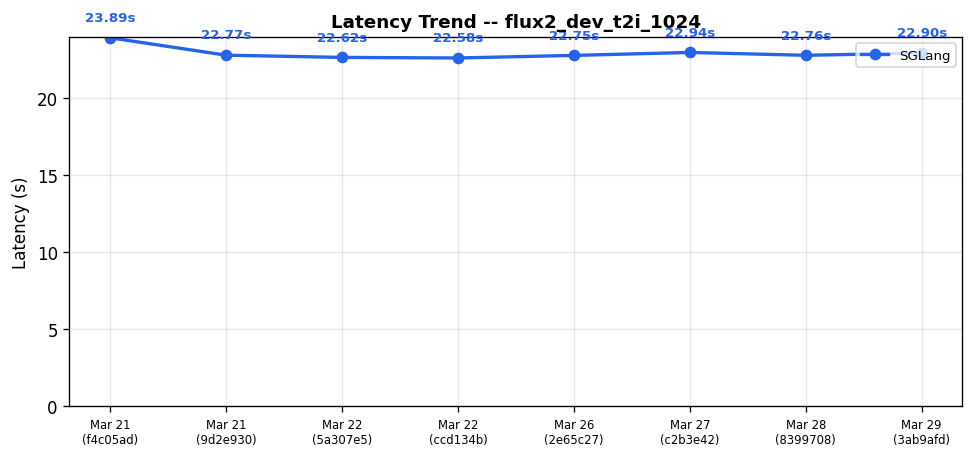
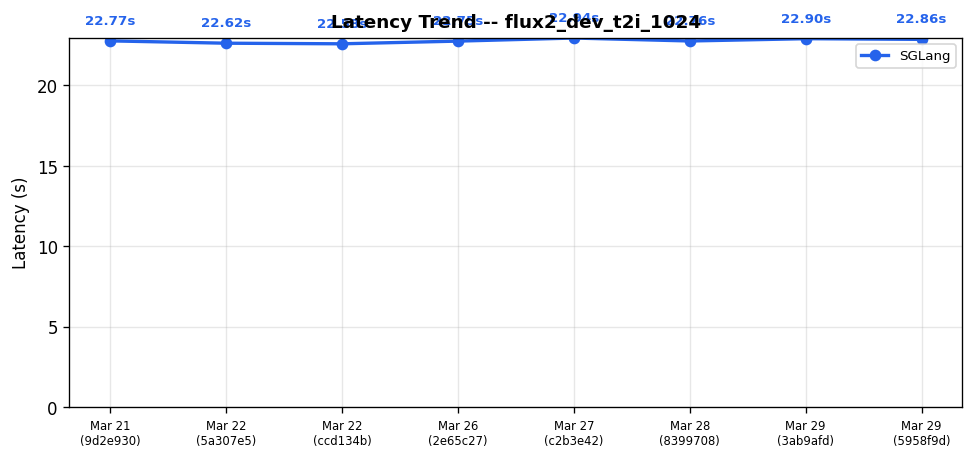
Diffusion comparison results for run 23700760130 (#532)

diff --git a/diffusion-comparisons/dashboard.md b/diffusion-comparisons/dashboard.md
@@ -1,32 +1,38 @@
 # Diffusion Cross-Framework Performance Dashboard
 
-*Generated: Mar 29 | Commit: `3ab9afd`*
+*Generated: Mar 29 | Commit: `5958f9d`*
+
+> [!WARNING]
+> **Performance Regression Detected**
+>
+> - **wan22_i2v_a14b_720p** (sglang): 9.04s -> 10.04s (+11.1%)
+
 
 ## Cross-Framework Performance Comparison
 
 | Model | Risk | sglang (s) |
 |-------|------|---------|
 | FLUX.1-dev | ✅ | **6.70** |
-| FLUX.2-dev | ✅ | **22.90** |
+| FLUX.2-dev | ✅ | **22.86** |
 | Qwen-Image-2512 | ✅ | **13.19** |
-| Qwen-Image-Edit-2511 | ✅ | **29.52** |
+| Qwen-Image-Edit-2511 | ✅ | **29.74** |
 | Z-Image-Turbo | ✅ | **0.93** |
-| Wan2.2-T2V-A14B-Diffusers | ✅ | **16.17** |
-| Wan2.2-TI2V-5B-Diffusers | ✅ | **62.17** |
-| Wan2.2-I2V-A14B-Diffusers | ✅ | **9.04** |
+| Wan2.2-T2V-A14B-Diffusers | ✅ | **16.31** |
+| Wan2.2-TI2V-5B-Diffusers | ✅ | **62.18** |
+| Wan2.2-I2V-A14B-Diffusers | ✅ | **10.04** |
 
 ## SGLang Performance Trend (Last 7 Runs)
 
 | Date | Commit | flux1_dev_t2i_1024 (s) | flux2_dev_t2i_1024 (s) | qwen_image_2512_t2i_1024 (s) | qwen_image_edit_2511 (s) | zimage_turbo_t2i_1024 (s) | wan22_t2v_a14b_720p (s) | wan22_ti2v_5b_720p (s) | wan22_i2v_a14b_720p (s) | Trend |
 |------|--------|---------|---------|---------|---------|---------|---------|---------|---------|-------|
+| Mar 29 | `5958f9d` | 6.70 | 22.86 | 13.19 | 29.74 | 0.93 | 16.31 | 62.18 | 10.04 | :left_right_arrow:  :left_right_arrow:  :left_right_arrow:  :left_right_arrow:  :left_right_arrow:  :left_right_arrow:  :left_right_arrow:  :arrow_up: |
 | Mar 29 | `3ab9afd` | 6.70 | 22.90 | 13.19 | 29.52 | 0.93 | 16.17 | 62.17 | 9.04 | :left_right_arrow:  :left_right_arrow:  :arrow_down:  :arrow_down:  :left_right_arrow:  :left_right_arrow:  :left_right_arrow:  :arrow_down: |
 | Mar 28 | `8399708` | 6.68 | 22.76 | 13.71 | 31.67 | 0.93 | 16.27 | 62.22 | 10.04 | :left_right_arrow:  :left_right_arrow:  :arrow_up:  :arrow_up:  :left_right_arrow:  :left_right_arrow:  :left_right_arrow:  :left_right_arrow: |
 | Mar 27 | `c2b3e42` | 6.70 | 22.94 | 13.18 | 29.64 | 0.93 | 16.11 | 62.21 | 10.04 | :left_right_arrow:  :left_right_arrow:  :left_right_arrow:  :left_right_arrow:  :left_right_arrow:  :left_right_arrow:  :left_right_arrow:  :left_right_arrow: |
 | Mar 26 | `2e65c27` | 6.77 | 22.75 | 13.31 | 29.84 | 0.94 | 16.06 | 62.23 | 10.04 | :left_right_arrow:  :left_right_arrow:  :arrow_down:  :left_right_arrow:  :arrow_down:  :left_right_arrow:  :left_right_arrow:  :left_right_arrow: |
 | Mar 22 | `ccd134b` | 6.69 | 22.58 | 13.58 | 29.97 | 1.96 | 16.10 | 62.17 | 10.04 | :left_right_arrow:  :left_right_arrow:  :arrow_down:  :left_right_arrow:  :arrow_down:  :left_right_arrow:  :left_right_arrow:  :left_right_arrow: |
 | Mar 22 | `5a307e5` | 6.70 | 22.62 | 14.09 | 30.14 | 2.01 | 16.13 | 62.20 | 10.04 | :left_right_arrow:  :left_right_arrow:  :arrow_up:  :left_right_arrow:  :arrow_up:  :left_right_arrow:  :left_right_arrow:  :arrow_up: |
-| Mar 21 | `9d2e930` | 6.77 | 22.77 | 13.71 | 30.39 | 1.93 | 16.14 | 62.15 | 9.03 | :arrow_down:  :arrow_down:  :arrow_down:  :arrow_down:  :arrow_down:  :arrow_down:  :arrow_down:  :arrow_down: |
-| Mar 21 | `f4c05ad` | 7.25 | 23.89 | 14.66 | 33.42 | 2.04 | 19.25 | 70.19 | 10.04 | -- |
+| Mar 21 | `9d2e930` | 6.77 | 22.77 | 13.71 | 30.39 | 1.93 | 16.14 | 62.15 | 9.03 | -- |
 
 ### Latency Trend: flux1_dev_t2i_1024
 
